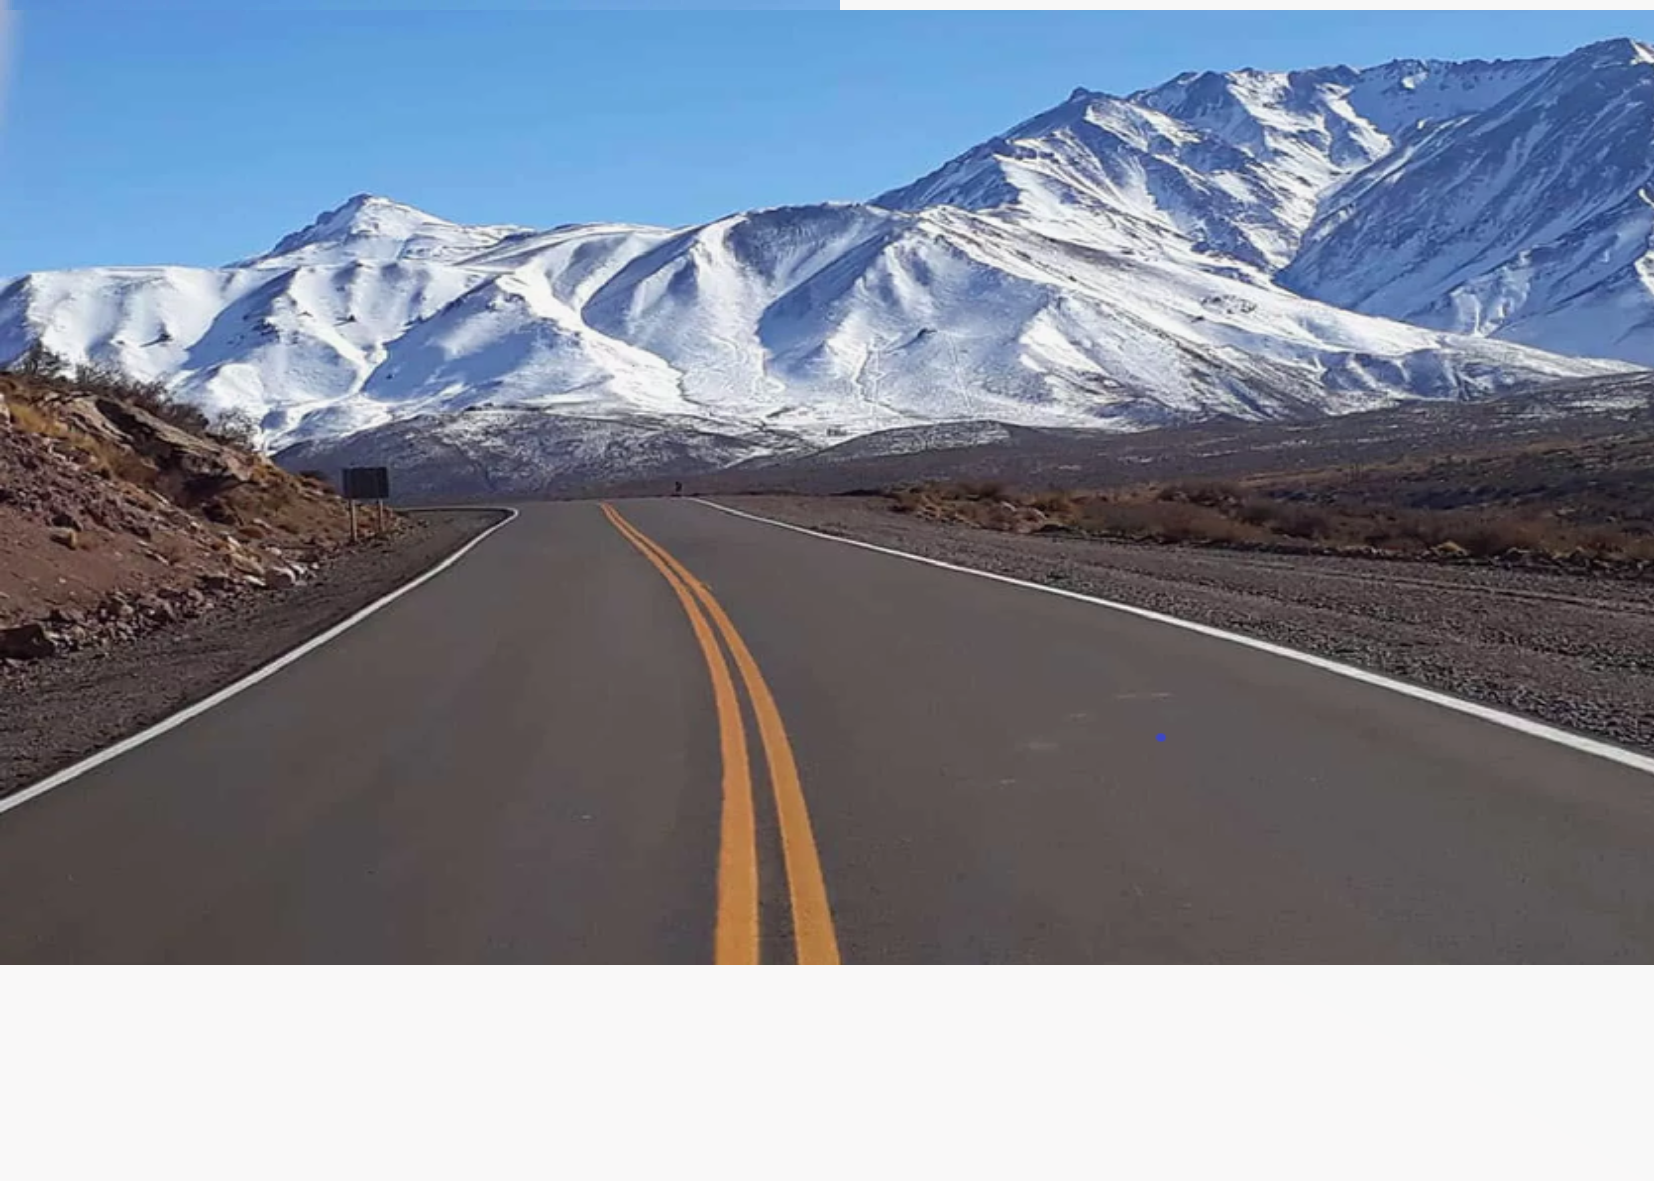
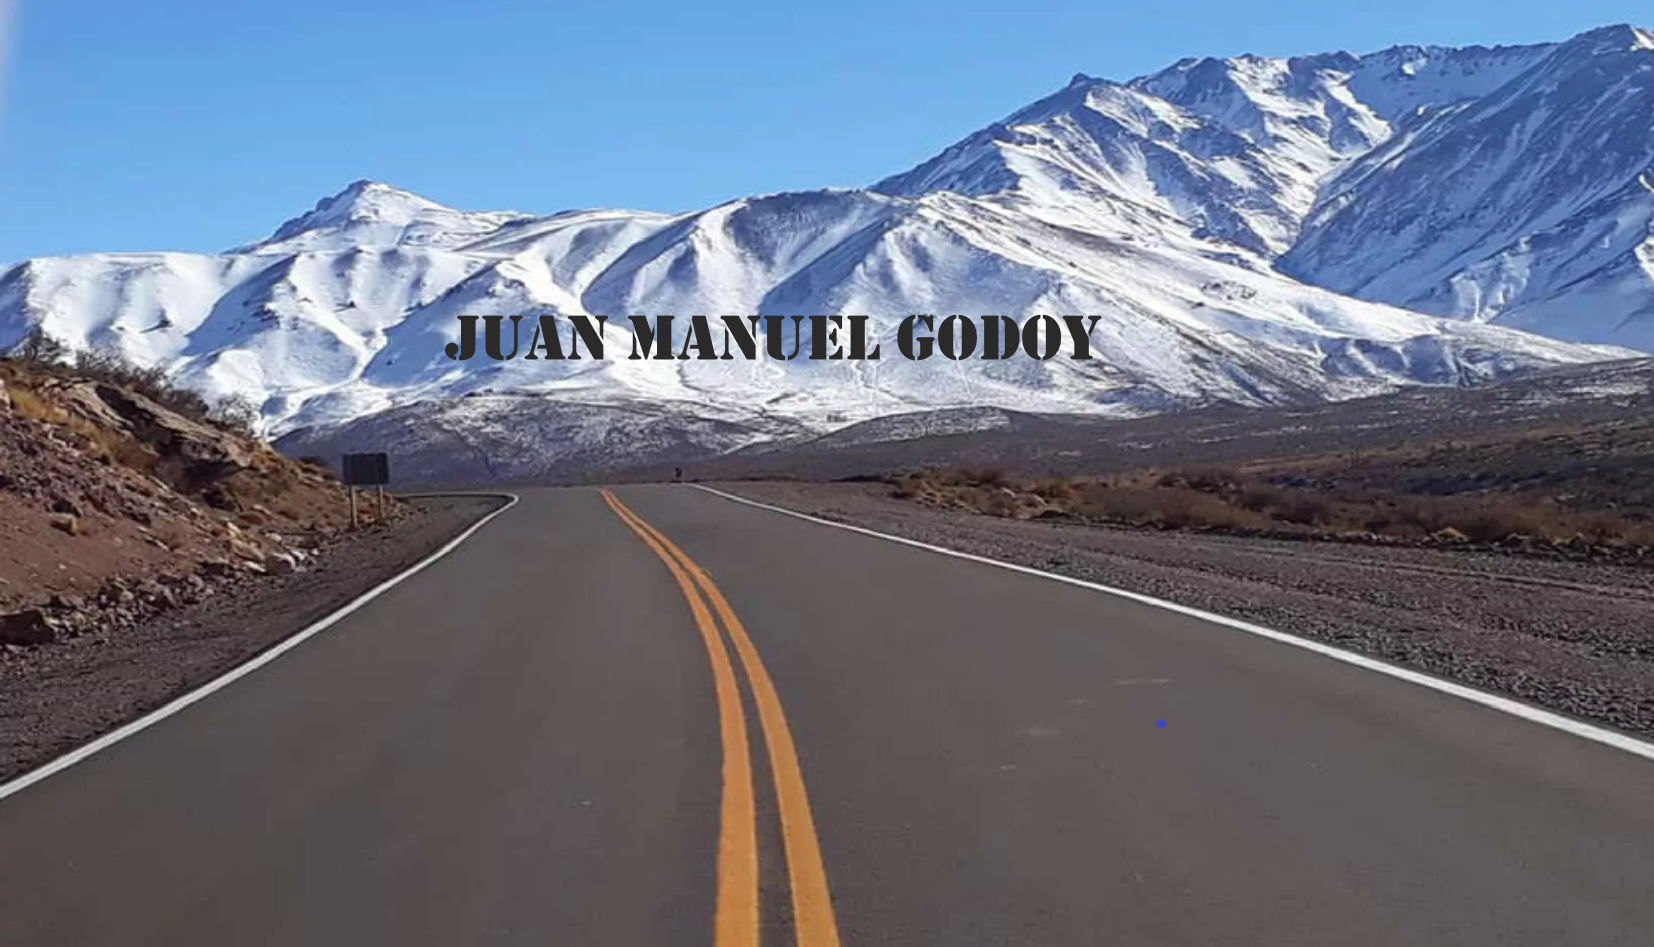
Acerca de segunda version

diff --git a/src/app/componentes/acerca-de/acerca-de.component.html b/src/app/componentes/acerca-de/acerca-de.component.html
@@ -1,15 +1,15 @@
 <div
         class="row">
-    <div class="col-xs-12 col-sm-2 col-md-2 col-lg-2">
-        <img src="../../../assets/fotomia.jpg" class="fluid">
+    <div class="col-xs-12 col-sm-2 col-md-2 col-lg-4">
+        <img src="../../../assets/fotomia1.png" class="fluid">
     </div>
-    <div class="col-xs-12 col-sm-4 col-md-4 col-lg-4">
-    <p>Godoy Juan Manuel</p>
+    <div class="col-xs-12 col-sm-2 col-md-12 col-lg-12">
+    <h4> <b> Juan Manuel Godoy</b></h4>
     <p>Full Stack Developer Jr.</p>
     </div>
-    <div class="col-xs-12 col-sm-8 col-md-8 col-lg-8"> 
+    <div class="col-xs-12 col-sm-8 col-md-12 col-lg-12"> 
         <span> 
-            <h1> Acerca de </h1>
+            <h1> Acerca de Juan Manuel Godoy</h1>
             <p>Lorem ipsum dolor sit amet consectetur adipisicing elit. 
                 Quae sed eveniet aperiam eaque modi impedit nobis corporis, 
                 dolore libero similique, esse optio a mollitia ducimus voluptas, 
